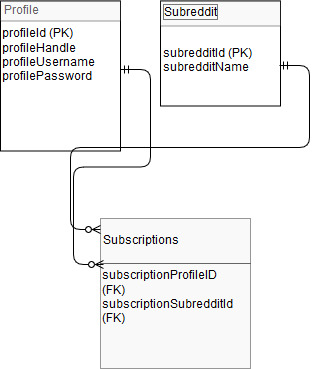
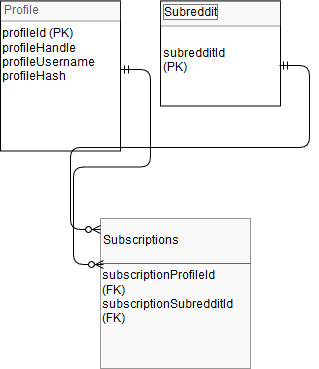
edited graphics and corrected lack of profilehash

Changed region(s): [[0.5078, 0.1192, 0.79, 0.2087], [0.1129, 0.1789, 0.3103, 0.2385], [0.6489, 0.7154, 0.6771, 0.7751]]

diff --git a/epic/Conceptual Model.php b/epic/Conceptual Model.php
@@ -16,7 +16,7 @@
 			</li>
 			<li>profileHandle</li>
 			<li>profileUsername</li>
-			<li>profilePassword</li>
+			<li>profileHash</li>
 		</ul>
 		<h5>Subreddits</h5>
 		<ul>
